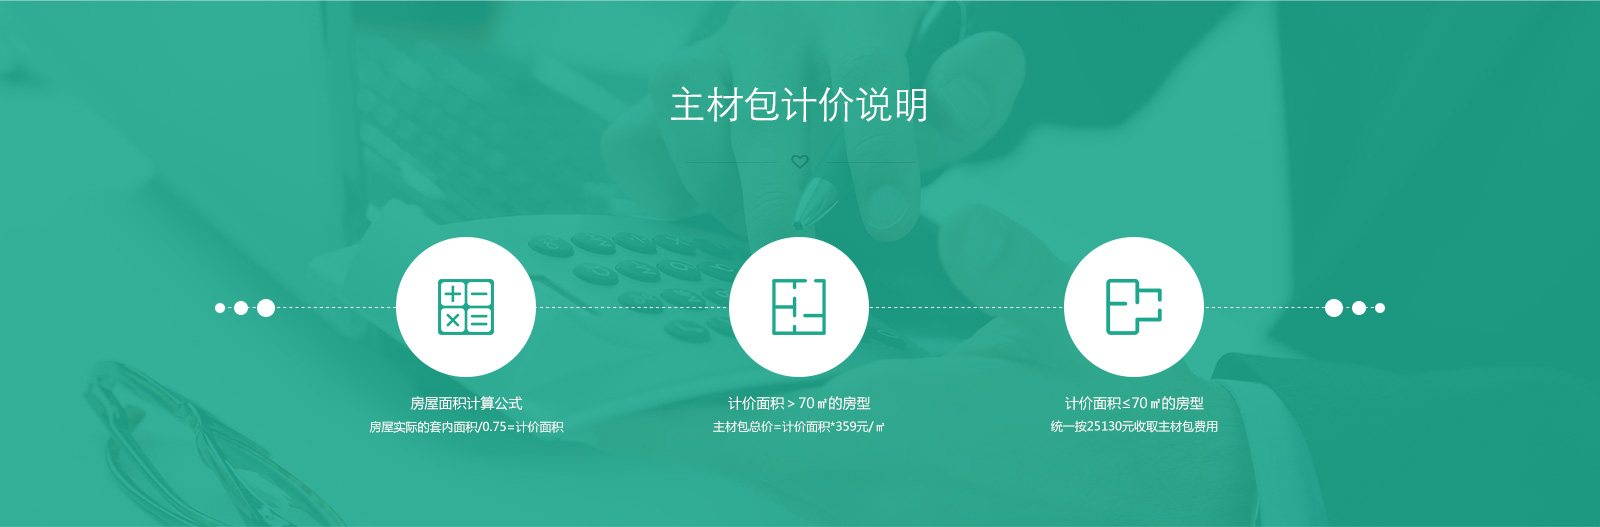
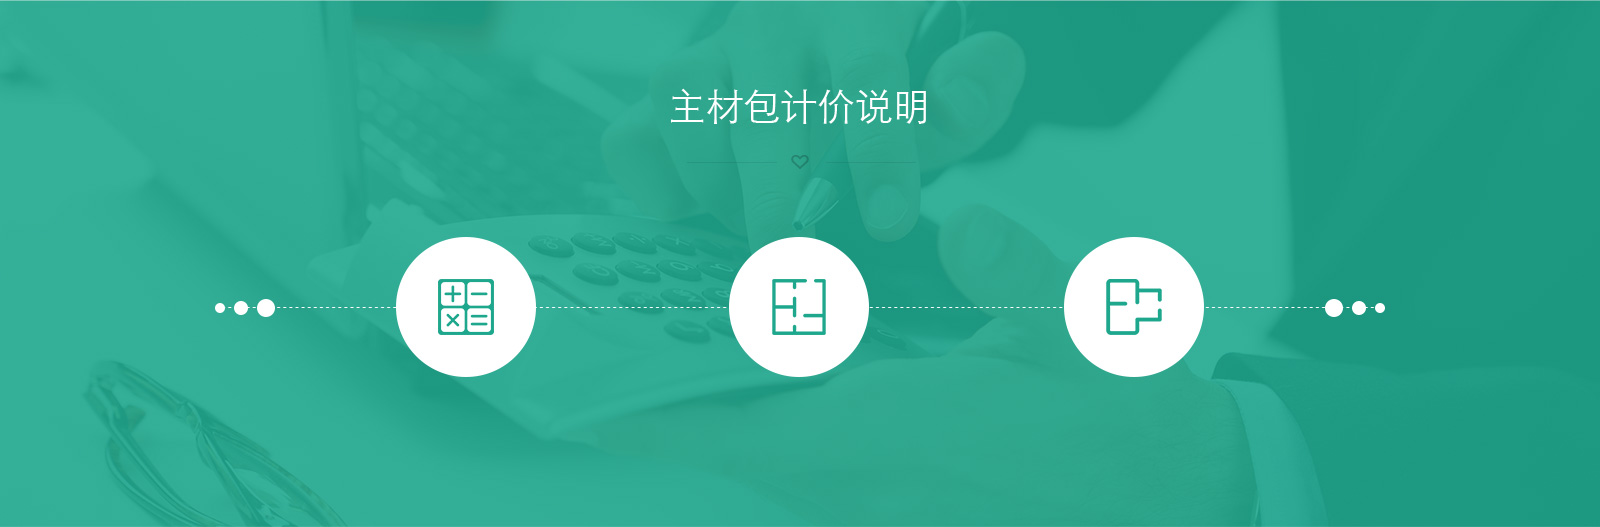
update

diff --git a/static/0100/css/style-2.min.css b/static/0100/css/style-2.min.css
@@ -1,3 +1,3 @@
-.white{color:#fff}.red_1{color:#ff4048}.red_2{color:#ff696f}.red_3{color:#e62626}.grey_1{color:#f5f5f5}.grey_2{color:#f7f7f7}.grey_3{color:#e4e4e4}.grey_4{color:#333}.grey_5{color:#666}.grey_6{color:#999}.yellow_1{color:#ffc240}.yellow_2{color:#f8a538}.green_1{color:#d4c913}.ellipsis,.page-1 div.content-page .page5 div.qin div.qin-left div i{white-space:nowrap;overflow:hidden;text-overflow:ellipsis}.no_select,body.page-2 div.page1 ul.swiper-btns li{user-select:none;-moz-user-select:none;-webkit-user-select:none;-ms-user-select:none}.box_css3{display:flex;display:-webkit-box;display:-moz-box;display:-ms-flexbox;display:-webkit-flex}img.lazy_img{background-color:transparent}div.lazy{background-color:transparent}.full{width:100%;height:100%}body{min-width:1170px}em.titles i{color:#878787}em.titles.title2{color:#fff}em.titles.title2 i{color:#a9a9a9}.full{width:100%;height:100%}.page-1{min-width:1170px;margin:0 auto}.page-1 div.swiper1{width:100%;height:800px}.page-1 div.swiper1 div.swiper-slide-active a.lazy img{display:block}.page-1 div.swiper1 a{display:block;width:100%;height:800px;position:relative}.page-1 div.swiper1 a img{display:block;width:1600px;height:800px;position:absolute;left:50%;top:0;margin-left:-800px;display:none}.page-1 div.content-page .page1{background-color:#f7f7f7;overflow:hidden}.page-1 div.content-page .page1 img{background:none;display:block;width:1078px;height:463px;margin:50px auto}.page-1 div.content-page .page2{background-color:#252525;overflow:hidden}.page-1 div.content-page .page2 em.titles{color:#fff}.page-1 div.content-page .page2 em.titles i{color:#8f8f8f}.page-1 div.content-page .page2 div.hovers{margin-top:80px;width:1235px}.page-1 div.content-page .page2 div.hovers div.hovers-list{overflow:hidden;float:left;width:270px;height:300px;overflow:hidden;position:relative;text-align:center;margin-right:30px}.page-1 div.content-page .page2 div.hovers div.hovers-list:hover span{bottom:-50px}.page-1 div.content-page .page2 div.hovers div.hovers-list:hover div.tops{top:0}.page-1 div.content-page .page2 div.hovers div.hovers-list span{display:block;background-color:rgba(0,0,0,0.4);width:100%;height:50px;line-height:50px;color:#fff;font-size:18px;position:absolute;bottom:0;left:0;transition:all ease .3s 0s;-moz-transition:all ease .3s 0s;-webkit-transition:all ease .3s 0s}.page-1 div.content-page .page2 div.hovers div.hovers-list div.tops{transition:all ease .3s 0s;-moz-transition:all ease .3s 0s;-webkit-transition:all ease .3s 0s;position:absolute;left:0;top:-100%;width:100%;height:100%;background-color:rgba(76,193,170,0.9);font-size:16px;line-height:2em;color:#fff}.page-1 div.content-page .page2 div.hovers div.hovers-list div.tops em{margin-top:45px;margin-bottom:10px;display:inline-block;border-bottom:1px solid #fff;padding-bottom:12px;font-size:22px}.page-1 div.content-page .page2 div.peoples{width:1250px;padding-bottom:100px;margin-top:70px}.page-1 div.content-page .page2 div.peoples div.lists{float:left;margin-left:5px;margin-right:56px}.page-1 div.content-page .page2 div.peoples div.lists .lazy-body{border:2px solid #474747;width:214px;height:214px;padding:13px}.page-1 div.content-page .page2 div.peoples div.lists .lazy-body .lazy{display:block;width:214px;height:214px}.page-1 div.content-page .page2 div.peoples div.lists em{text-align:center}.page-1 div.content-page .page2 div.peoples div.lists em span{color:#c59a6d;margin:15px 0;display:block}.page-1 div.content-page .page2 div.peoples div.lists em i{display:block;color:#777777}.page-1 div.content-page .page3{background-color:#f8f8f8}.page-1 div.content-page .page3 i.xin:before{background-color:#f8f8f8}.page-1 div.content-page .page3 img{background:none;display:block;margin:0 auto;width:1098px;margin-top:20px;height:754px}.page-1 div.content-page .page4{background-color:#fff;overflow:hidden}.page-1 div.content-page .page4 i.xin:before{background-color:#fff}.page-1 div.content-page .page4 img.huo{width:769px;height:465px;margin:60px auto;background:none}.page-1 div.content-page .page4 div.swiper2{margin-bottom:30px;height:260px;width:100%;width:100%}.page-1 div.content-page .page4 div.swiper2 .pagination1{bottom:0}.page-1 div.content-page .page4 div.swiper2 .swiper-pagination-switch{background-color:transparent;border:1px solid #d1d1d1}.page-1 div.content-page .page4 div.swiper2 .swiper-active-switch{background-color:#35bda3;border-color:#35bda3}.page-1 div.content-page .page4 div.swiper2 div.swiper-slide{height:230px}.page-1 div.content-page .page4 div.swiper2 div.a-body{width:1200px;overflow:hidden}.page-1 div.content-page .page4 div.swiper2 a{float:left;margin-right:15px;border:1px solid #c7c7c7;width:180px;height:220px;overflow:hidden;text-align:center}.page-1 div.content-page .page4 div.swiper2 a div.lazy{width:180px;height:112px}.page-1 div.content-page .page4 div.swiper2 a span{background-color:#35bda3;color:#fff;text-align:center;font-size:16px;width:120px;display:block;height:30px;line-height:30px;border-radius:5px;margin:15px auto}.page-1 div.content-page .page4 div.swiper2 a p{width:160px;margin:0 auto;text-align:left;display:block;overflow:hidden;text-overflow:ellipsis;display:-webkit-box;-webkit-box-orient:vertical;-webkit-line-clamp:2;height:42px;color:#666;font-size:12px}.page-1 div.content-page .page5{background-color:#040404;overflow:hidden}.page-1 div.content-page .page5 em.titles{color:#fff}.page-1 div.content-page .page5 em.titles i{color:#a9a9a9}.page-1 div.content-page .page5 div.qin{margin:60px 0;overflow:hidden;height:410px;position:relative}.page-1 div.content-page .page5 div.qin div.qin-list{position:relative;width:70px;transition:all linear .3s 0s;-moz-transition:all linear .3s 0s;-webkit-transition:all linear .3s 0s;height:100%;background-color:#f46f46;background-color:rgba(244,111,70,0.8);float:left;overflow:hidden}.page-1 div.content-page .page5 div.qin div.qin-list.even{background-color:#4ab49f;background-color:rgba(74,180,159,0.8)}.page-1 div.content-page .page5 div.qin div.qin-list.on{width:820px}.page-1 div.content-page .page5 div.qin div.qin-list.on div.qin-title{opacity:0;top:100%}.page-1 div.content-page .page5 div.qin div.qin-list.on div.qin-left{opacity:1}.page-1 div.content-page .page5 div.qin div.qin-left{overflow:hidden;text-align:center;position:relative;width:760px;height:370px;padding:40px;color:#fff;opacity:0;overflow-y:auto;transition:all ease .3s .3s;-moz-transition:all ease .3s .3s;-webkit-transition:all ease .3s .3s}.page-1 div.content-page .page5 div.qin div.qin-left em{display:block;font-size:30px;margin-bottom:25px}.page-1 div.content-page .page5 div.qin div.qin-left span{display:block;font-size:14px}.page-1 div.content-page .page5 div.qin div.qin-left div{margin-top:30px}.page-1 div.content-page .page5 div.qin div.qin-left div i{float:left;text-align:left;width:150px;height:30px;line-height:30px;font-size:12px;padding:0 10px;background-color:rgba(0,0,0,0.08);margin-right:16px;margin-bottom:5px}.page-1 div.content-page .page5 div.qin div.qin-title{position:absolute;width:70px;height:100%;color:#f8f8f8;font-size:20px;overflow:hidden;writing-mode:tb-rl;text-align:center;cursor:pointer;right:17px;top:0;transition:all ease .3s .3s;-moz-transition:all ease .3s .3s;-webkit-transition:all ease .3s .3s}.page-1 div.content-page .page5 div.qin div.qin-title i{display:inline-block;font-size:24px;writing-mode:lr-tb}.page-1 div.content-page .page6{padding-bottom:100px}.page-1 div.content-page .page6 i.xin:before{background-color:#fff}.page-1 div.content-page .page6 img{margin:0 auto}body.page-1-2 .page7{background-color:#2a2a2a;position:relative;height:514px;overflow:hidden}body.page-1-2 .page7 img.bg{position:absolute;left:50%;top:0;margin-left:-800px;height:514px}body.page-1-2 .page7 div.w1170{position:relative;z-index:3}body.page-1-2 .page7 em.titles span{color:#fff}body.page-1-2 .page7 em.titles i{color:#aaaaaa}body.page-1-2 .page7 form{display:block;text-align:center;overflow:hidden;padding-bottom:70px}body.page-1-2 .page7 form div.input{display:inline-block;width:370px;height:50px;font-size:14px;margin:65px 15px 0;position:relative}body.page-1-2 .page7 form div.input div.error{position:absolute;top:100%;left:0;line-height:30px;display:block;margin-top:15px;white-space:nowrap}body.page-1-2 .page7 form div.input input,body.page-1-2 .page7 form div.input select{box-sizing:border-box;display:block;width:100%;height:100%;text-indent:1em;border-radius:0}body.page-1-2 .page7 form button{margin-top:65px;width:370px;font-size:14px;text-align:center;line-height:50px;border:1px solid #3cd8b9;color:#3cd8b9;background-color:transparent;cursor:pointer}body.page-2 div.page-header{margin-top:70px;position:relative;height:40px;overflow:hidden;position:absolute;z-index:10;left:0;top:0;width:100%}body.page-2 div.page-header i.bg{position:absolute;left:0;top:0;background-color:#fff;opacity:.2;filter:alpha(opacity=20)}body.page-2 div.page-header div.w1170{position:relative;z-index:1}body.page-2 div.page-header div.w1170 div.fl{line-height:40px}body.page-2 div.page-header div.w1170 div.fl a{color:#fff;transition:all ease .3s 0s;-moz-transition:all ease .3s 0s;-webkit-transition:all ease .3s 0s;margin-right:30px}body.page-2 div.page-header div.w1170 div.fl a.on,body.page-2 div.page-header div.w1170 div.fl a:hover{color:#1ea78d}body.page-2 div.page-header div.w1170 div.fr a{display:block;background-color:#1ea78d;border-radius:3px;color:#fff;font-size:12px;padding:6px 15px;line-height:1em;margin-top:7px;transition:all ease .3s 0s;-moz-transition:all ease .3s 0s;-webkit-transition:all ease .3s 0s}body.page-2 div.page-header div.w1170 div.fr a:hover{opacity:.8;filter:alpha(opacity=80)}body.page-2 .go-form{cursor:pointer}body.page-2 div.banner{background-color:#000;height:800px;position:relative}body.page-2 div.banner img{position:absolute;left:50%;margin-left:-800px;top:0;display:block;height:800px;background:none}body.page-2 div.banner img.banner-top{height:319px;margin-left:-239px;top:287px}body.page-2 div.banner a{display:block;position:absolute;width:110px;height:30px;color:#fff;background-color:#1ea78d;text-align:center;line-height:30px;font-size:14px;left:50%;margin-left:-55px;bottom:180px;transition:all ease .3s 0s;-moz-transition:all ease .3s 0s;-webkit-transition:all ease .3s 0s}body.page-2 div.banner a:hover{background-color:#fff;color:#1ea78d}body.page-2 div.page1{background-color:#f7f7f7;overflow:hidden;padding-bottom:70px}body.page-2 div.page1 ul.swiper-btns{position:relative;height:50px;border-bottom:1px solid #f0f0f0}body.page-2 div.page1 ul.swiper-btns li{float:left;width:20%;position:relative;height:50px;line-height:50px;text-align:center;color:#666;font-size:14px;transition:all ease .3s 0s;-moz-transition:all ease .3s 0s;-webkit-transition:all ease .3s 0s;cursor:pointer}body.page-2 div.page1 ul.swiper-btns li.on,body.page-2 div.page1 ul.swiper-btns li:hover{color:#1ea78d}body.page-2 div.page1 ul.swiper-btns li:after{content:'';position:absolute;width:1px;display:block;height:14px;background-color:#b7ddd6;right:0;top:50%;margin-top:-7px}body.page-2 div.page1 ul.swiper-btns i{position:absolute;width:20%;height:2px;background-color:#1ea78d;bottom:-1px;left:0;display:block;transition:all ease .3s 0s;-moz-transition:all ease .3s 0s;-webkit-transition:all ease .3s 0s}body.page-2 div.page1 ul.swiper-btns:after{content:'';position:absolute;width:1px;display:block;height:20px;background-color:#f7f7f7;right:0;top:50%;margin-top:-7px}body.page-2 div.page1 div.swiper1{width:100%;height:450px;overflow:hidden}body.page-2 div.page1 div.swiper1 a.lazy{display:block;width:1170px;height:450px}body.page-2 div.page1 div.swiper1 a.lazy img{display:none}body.page-2 div.page1 div.swiper1 .swiper-slide-active a.lazy img{display:block}body.page-2 div.page2{background-color:#35b099}body.page-2 div.page2 div.w1170{height:527px;position:relative}body.page-2 div.page2 div.w1170 img{position:absolute;height:100%;background-color:transparent;top:0;left:50%;margin-left:-800px}body.page-2 div.page3{background-color:#fff;overflow:hidden}body.page-2 div.page4{background-color:#0c0c0c;position:relative;height:705px;overflow:hidden}body.page-2 div.page4 img.bg{position:absolute;height:705px;left:50%;top:0;margin-left:-800px;background-color:transparent}body.page-2 div.page4 div.w1170{position:relative;z-index:3}body.page-2 div.page4 div.w1170 div.swiper-body{position:relative;width:1030px;margin:0 auto}body.page-2 div.page4 div.w1170 div.swiper-body i.icons{position:absolute;display:block;top:50%;margin-top:-36px;border:1px solid #fff;opacity:0.6;width:70px;height:70px;border-radius:50%;text-align:center;line-height:70px;font-size:50px;right:100%;color:#fff;opacity:0.6;cursor:pointer}body.page-2 div.page4 div.w1170 div.swiper-body i.icons.icon-right{left:100%}body.page-2 div.page4 div.w1170 div.swiper2{width:970px;height:420px;margin:50px auto;position:relative}body.page-2 div.page4 div.w1170 div.swiper2 div.swiper-slide{position:relative;background-color:#1f1f1f;overflow:hidden}body.page-2 div.page4 div.w1170 div.swiper2 div.swiper-slide img{display:none}body.page-2 div.page4 div.w1170 div.swiper2 div.swiper-slide.swiper-slide-active img{display:block}body.page-2 div.page4 div.w1170 div.swiper2 div.swiper-slide.swiper-slide-active div.top div.left{left:0}body.page-2 div.page4 div.w1170 div.swiper2 div.swiper-slide.swiper-slide-active div.top div.right div.lazy{transform:translate(0, 0);-moz-transform:translate(0, 0);-webkit-transform:translate(0, 0);-ms-transform:translate(0, 0)}body.page-2 div.page4 div.w1170 div.swiper2 div.swiper-slide div.top{position:absolute;left:0;top:0;z-index:10}body.page-2 div.page4 div.w1170 div.swiper2 div.swiper-slide div.top div.left{width:270px;position:absolute;height:100%;overflow:hidden;top:0;left:-300px;transition:all ease .5s .4s;-moz-transition:all ease .5s .4s;-webkit-transition:all ease .5s .4s}body.page-2 div.page4 div.w1170 div.swiper2 div.swiper-slide div.top div.left div.lazy{width:200px;height:140px;background-color:#fff;border:1px solid #e9e9e9;margin:60px auto;margin-bottom:20px}body.page-2 div.page4 div.w1170 div.swiper2 div.swiper-slide div.top div.left div.fonts{width:200px;overflow-y:auto;color:#666;height:180px;margin:0 auto;font-size:12px}body.page-2 div.page4 div.w1170 div.swiper2 div.swiper-slide div.top div.left:after{width:100%;height:100%;background-color:#fff;opacity:0.8;content:'';left:0;top:0;position:absolute;z-index:-1}body.page-2 div.page4 div.w1170 div.swiper2 div.swiper-slide div.top div.right{position:absolute;bottom:0;left:270px;right:0;height:150px;text-align:center;font-size:0;overflow:hidden}body.page-2 div.page4 div.w1170 div.swiper2 div.swiper-slide div.top div.right div.lazy{display:inline-block;width:130px;height:110px;margin:0 20px;border:6px solid #fff;transform:translate(0, 150%);-moz-transform:translate(0, 150%);-webkit-transform:translate(0, 150%);-ms-transform:translate(0, 150%);transition:all ease .5s .5s;-moz-transition:all ease .5s .5s;-webkit-transition:all ease .5s .5s}body.page-2 div.page4 div.w1170 div.swiper2 div.swiper-slide div.top div.right div.lazy:nth-of-type(2){transition:all ease .5s .6s;-moz-transition:all ease .5s .6s;-webkit-transition:all ease .5s .6s}body.page-2 div.page4 div.w1170 div.swiper2 div.swiper-slide div.top div.right div.lazy:nth-of-type(3){transition:all ease .5s .7s;-moz-transition:all ease .5s .7s;-webkit-transition:all ease .5s .7s}body.page-2 div.page7{overflow:hidden}body.page-2 div.page7 span.xin{opacity:0.3}body.page-2 div.page7 button{margin-top:0px}body.page-2 div.page7 div.input{background-color:#fff;display:block;margin:16px auto}body.page-2 div.page7 div.input input,body.page-2 div.page7 div.input select{font-size:14px}body.page-2 div.page7 div.input div.error{left:390px;top:0}div.input input{transition:all ease .3s 0s;-moz-transition:all ease .3s 0s;-webkit-transition:all ease .3s 0s}div.input input:focus{border-color:#1ea78d;box-shadow:2px 1px 6px #1ea78d}select{border:none}.pagination,.pagination1{position:absolute;z-index:20;bottom:10px;width:100%;text-align:center}.swiper-pagination-switch{display:inline-block;width:8px;height:8px;border-radius:8px;background:#555;margin:0 5px;opacity:0.8;border:1px solid #fff;cursor:pointer}.swiper-active-switch{background:#fff}
+.white{color:#fff}.red_1{color:#ff4048}.red_2{color:#ff696f}.red_3{color:#e62626}.grey_1{color:#f5f5f5}.grey_2{color:#f7f7f7}.grey_3{color:#e4e4e4}.grey_4{color:#333}.grey_5{color:#666}.grey_6{color:#999}.yellow_1{color:#ffc240}.yellow_2{color:#f8a538}.green_1{color:#d4c913}.ellipsis,.page-1 div.content-page .page5 div.qin div.qin-left div i{white-space:nowrap;overflow:hidden;text-overflow:ellipsis}.no_select,body.page-2 div.page1 ul.swiper-btns li{user-select:none;-moz-user-select:none;-webkit-user-select:none;-ms-user-select:none}.box_css3{display:flex;display:-webkit-box;display:-moz-box;display:-ms-flexbox;display:-webkit-flex}img.lazy_img{background-color:transparent}div.lazy{background-color:transparent}.full{width:100%;height:100%}body{min-width:1170px}em.titles i{color:#878787}em.titles.title2{color:#fff}em.titles.title2 i{color:#a9a9a9}.full{width:100%;height:100%}.page-1{min-width:1170px;margin:0 auto}.page-1 div.swiper1{width:100%;height:800px}.page-1 div.swiper1 div.swiper-slide-active a.lazy img{display:block}.page-1 div.swiper1 a{display:block;width:100%;height:800px;position:relative}.page-1 div.swiper1 a img{display:block;width:1600px;height:800px;position:absolute;left:50%;top:0;margin-left:-800px;display:none}.page-1 div.content-page .page1{background-color:#f7f7f7;overflow:hidden}.page-1 div.content-page .page1 img{background:none;display:block;width:1078px;height:463px;margin:50px auto}.page-1 div.content-page .page2{background-color:#252525;overflow:hidden}.page-1 div.content-page .page2 em.titles{color:#fff}.page-1 div.content-page .page2 em.titles i{color:#8f8f8f}.page-1 div.content-page .page2 div.hovers{margin-top:80px;width:1235px}.page-1 div.content-page .page2 div.hovers div.hovers-list{overflow:hidden;float:left;width:270px;height:300px;overflow:hidden;position:relative;text-align:center;margin-right:30px}.page-1 div.content-page .page2 div.hovers div.hovers-list:hover span{bottom:-50px}.page-1 div.content-page .page2 div.hovers div.hovers-list:hover div.tops{top:0}.page-1 div.content-page .page2 div.hovers div.hovers-list span{display:block;background-color:rgba(0,0,0,0.4);width:100%;height:50px;line-height:50px;color:#fff;font-size:18px;position:absolute;bottom:0;left:0;transition:all ease .3s 0s;-moz-transition:all ease .3s 0s;-webkit-transition:all ease .3s 0s}.page-1 div.content-page .page2 div.hovers div.hovers-list div.tops{transition:all ease .3s 0s;-moz-transition:all ease .3s 0s;-webkit-transition:all ease .3s 0s;position:absolute;left:0;top:-100%;width:100%;height:100%;background-color:rgba(76,193,170,0.9);font-size:16px;line-height:2em;color:#fff}.page-1 div.content-page .page2 div.hovers div.hovers-list div.tops em{margin-top:45px;margin-bottom:10px;display:inline-block;border-bottom:1px solid #fff;padding-bottom:12px;font-size:22px}.page-1 div.content-page .page2 div.peoples{width:1250px;padding-bottom:100px;margin-top:70px}.page-1 div.content-page .page2 div.peoples div.lists{float:left;margin-left:5px;margin-right:56px}.page-1 div.content-page .page2 div.peoples div.lists .lazy-body{border:2px solid #474747;width:214px;height:214px;padding:13px}.page-1 div.content-page .page2 div.peoples div.lists .lazy-body .lazy{display:block;width:214px;height:214px}.page-1 div.content-page .page2 div.peoples div.lists em{text-align:center}.page-1 div.content-page .page2 div.peoples div.lists em span{color:#c59a6d;margin:15px 0;display:block}.page-1 div.content-page .page2 div.peoples div.lists em i{display:block;color:#777777}.page-1 div.content-page .page3{background-color:#f8f8f8}.page-1 div.content-page .page3 i.xin:before{background-color:#f8f8f8}.page-1 div.content-page .page3 img{background:none;display:block;margin:0 auto;width:1098px;margin-top:20px;height:754px}.page-1 div.content-page .page4{background-color:#fff;overflow:hidden}.page-1 div.content-page .page4 i.xin:before{background-color:#fff}.page-1 div.content-page .page4 img.huo{width:769px;height:465px;margin:60px auto;background:none}.page-1 div.content-page .page4 div.swiper2{margin-bottom:30px;height:260px;width:100%;width:100%}.page-1 div.content-page .page4 div.swiper2 .pagination1{bottom:0}.page-1 div.content-page .page4 div.swiper2 .swiper-pagination-switch{background-color:transparent;border:1px solid #d1d1d1}.page-1 div.content-page .page4 div.swiper2 .swiper-active-switch{background-color:#35bda3;border-color:#35bda3}.page-1 div.content-page .page4 div.swiper2 div.swiper-slide{height:230px}.page-1 div.content-page .page4 div.swiper2 div.a-body{width:1200px;overflow:hidden}.page-1 div.content-page .page4 div.swiper2 a{float:left;margin-right:15px;border:1px solid #c7c7c7;width:180px;height:220px;overflow:hidden;text-align:center}.page-1 div.content-page .page4 div.swiper2 a div.lazy{width:180px;height:112px}.page-1 div.content-page .page4 div.swiper2 a span{background-color:#35bda3;color:#fff;text-align:center;font-size:16px;width:120px;display:block;height:30px;line-height:30px;border-radius:5px;margin:15px auto}.page-1 div.content-page .page4 div.swiper2 a p{width:160px;margin:0 auto;text-align:left;display:block;overflow:hidden;text-overflow:ellipsis;display:-webkit-box;-webkit-box-orient:vertical;-webkit-line-clamp:2;height:42px;color:#666;font-size:12px}.page-1 div.content-page .page5{background-color:#040404;overflow:hidden}.page-1 div.content-page .page5 em.titles{color:#fff}.page-1 div.content-page .page5 em.titles i{color:#a9a9a9}.page-1 div.content-page .page5 div.qin{margin:60px 0;overflow:hidden;height:410px;position:relative}.page-1 div.content-page .page5 div.qin div.qin-list{position:relative;width:70px;transition:all linear .3s 0s;-moz-transition:all linear .3s 0s;-webkit-transition:all linear .3s 0s;height:100%;background-color:#f46f46;background-color:rgba(244,111,70,0.8);float:left;overflow:hidden}.page-1 div.content-page .page5 div.qin div.qin-list.even{background-color:#4ab49f;background-color:rgba(74,180,159,0.8)}.page-1 div.content-page .page5 div.qin div.qin-list.on{width:820px}.page-1 div.content-page .page5 div.qin div.qin-list.on div.qin-title{opacity:0;top:100%}.page-1 div.content-page .page5 div.qin div.qin-list.on div.qin-left{opacity:1}.page-1 div.content-page .page5 div.qin div.qin-left{overflow:hidden;text-align:center;position:relative;width:760px;height:370px;padding:40px;color:#fff;opacity:0;overflow-y:auto;transition:all ease .3s .3s;-moz-transition:all ease .3s .3s;-webkit-transition:all ease .3s .3s}.page-1 div.content-page .page5 div.qin div.qin-left em{display:block;font-size:30px;margin-bottom:25px}.page-1 div.content-page .page5 div.qin div.qin-left span{display:block;font-size:14px}.page-1 div.content-page .page5 div.qin div.qin-left div{margin-top:30px}.page-1 div.content-page .page5 div.qin div.qin-left div i{float:left;text-align:left;width:150px;height:30px;line-height:30px;font-size:12px;padding:0 10px;background-color:rgba(0,0,0,0.08);margin-right:16px;margin-bottom:5px}.page-1 div.content-page .page5 div.qin div.qin-title{position:absolute;width:70px;height:100%;color:#f8f8f8;font-size:20px;overflow:hidden;writing-mode:tb-rl;text-align:center;cursor:pointer;right:17px;top:0;transition:all ease .3s .3s;-moz-transition:all ease .3s .3s;-webkit-transition:all ease .3s .3s}.page-1 div.content-page .page5 div.qin div.qin-title i{display:inline-block;font-size:24px;writing-mode:lr-tb}.page-1 div.content-page .page6{padding-bottom:100px}.page-1 div.content-page .page6 i.xin:before{background-color:#fff}.page-1 div.content-page .page6 img{margin:0 auto}body.page-1-2 .page7{background-color:#2a2a2a;position:relative;height:514px;overflow:hidden}body.page-1-2 .page7 img.bg{position:absolute;left:50%;top:0;margin-left:-800px;height:514px}body.page-1-2 .page7 div.w1170{position:relative;z-index:3}body.page-1-2 .page7 em.titles span{color:#fff}body.page-1-2 .page7 em.titles i{color:#aaaaaa}body.page-1-2 .page7 form{display:block;text-align:center;overflow:hidden;padding-bottom:70px}body.page-1-2 .page7 form div.input{display:inline-block;width:370px;height:50px;font-size:14px;margin:65px 15px 0;position:relative}body.page-1-2 .page7 form div.input div.error{position:absolute;top:100%;left:0;line-height:30px;display:block;margin-top:15px;white-space:nowrap}body.page-1-2 .page7 form div.input input,body.page-1-2 .page7 form div.input select{box-sizing:border-box;display:block;width:100%;height:100%;text-indent:1em;border-radius:0}body.page-1-2 .page7 form button{margin-top:65px;width:370px;font-size:14px;text-align:center;line-height:50px;border:1px solid #3cd8b9;color:#3cd8b9;background-color:transparent;cursor:pointer}body.page-2 div.page-header{margin-top:70px;position:relative;height:40px;overflow:hidden;position:absolute;z-index:10;left:0;top:0;width:100%}body.page-2 div.page-header i.bg{position:absolute;left:0;top:0;background-color:#fff;opacity:.2;filter:alpha(opacity=20)}body.page-2 div.page-header div.w1170{position:relative;z-index:1}body.page-2 div.page-header div.w1170 div.fl{line-height:40px}body.page-2 div.page-header div.w1170 div.fl a{color:#fff;transition:all ease .3s 0s;-moz-transition:all ease .3s 0s;-webkit-transition:all ease .3s 0s;margin-right:30px}body.page-2 div.page-header div.w1170 div.fl a.on,body.page-2 div.page-header div.w1170 div.fl a:hover{color:#1ea78d}body.page-2 div.page-header div.w1170 div.fr a{display:block;background-color:#1ea78d;border-radius:3px;color:#fff;font-size:12px;padding:6px 15px;line-height:1em;margin-top:7px;transition:all ease .3s 0s;-moz-transition:all ease .3s 0s;-webkit-transition:all ease .3s 0s}body.page-2 div.page-header div.w1170 div.fr a:hover{opacity:.8;filter:alpha(opacity=80)}body.page-2 div.page2 div.fonts{position:absolute;z-index:10;width:100%;top:400px;left:95px;width:1000px}body.page-2 div.page2 div.fonts p{float:left;width:33%;text-align:center;color:#fff}body.page-2 .go-form{cursor:pointer}body.page-2 div.banner{background-color:#000;height:800px;position:relative}body.page-2 div.banner img{position:absolute;left:50%;margin-left:-800px;top:0;display:block;height:800px;background:none}body.page-2 div.banner img.banner-top{height:319px;margin-left:-239px;top:287px}body.page-2 div.banner a{display:block;position:absolute;width:110px;height:30px;color:#fff;background-color:#1ea78d;text-align:center;line-height:30px;font-size:14px;left:50%;margin-left:-55px;bottom:180px;transition:all ease .3s 0s;-moz-transition:all ease .3s 0s;-webkit-transition:all ease .3s 0s}body.page-2 div.banner a:hover{background-color:#fff;color:#1ea78d}body.page-2 div.page1{background-color:#f7f7f7;overflow:hidden;padding-bottom:70px}body.page-2 div.page1 ul.swiper-btns{position:relative;height:50px;border-bottom:1px solid #f0f0f0}body.page-2 div.page1 ul.swiper-btns li{float:left;width:20%;position:relative;height:50px;line-height:50px;text-align:center;color:#666;font-size:14px;transition:all ease .3s 0s;-moz-transition:all ease .3s 0s;-webkit-transition:all ease .3s 0s;cursor:pointer}body.page-2 div.page1 ul.swiper-btns li.on,body.page-2 div.page1 ul.swiper-btns li:hover{color:#1ea78d}body.page-2 div.page1 ul.swiper-btns li:after{content:'';position:absolute;width:1px;display:block;height:14px;background-color:#b7ddd6;right:0;top:50%;margin-top:-7px}body.page-2 div.page1 ul.swiper-btns i{position:absolute;width:20%;height:2px;background-color:#1ea78d;bottom:-1px;left:0;display:block;transition:all ease .3s 0s;-moz-transition:all ease .3s 0s;-webkit-transition:all ease .3s 0s}body.page-2 div.page1 ul.swiper-btns:after{content:'';position:absolute;width:1px;display:block;height:20px;background-color:#f7f7f7;right:0;top:50%;margin-top:-7px}body.page-2 div.page1 div.swiper1{width:100%;height:450px;overflow:hidden}body.page-2 div.page1 div.swiper1 a.lazy{display:block;width:1170px;height:450px}body.page-2 div.page1 div.swiper1 a.lazy img{display:none}body.page-2 div.page1 div.swiper1 .swiper-slide-active a.lazy img{display:block}body.page-2 div.page2{background-color:#35b099}body.page-2 div.page2 div.w1170{height:527px;position:relative}body.page-2 div.page2 div.w1170 img{position:absolute;height:100%;background-color:transparent;top:0;left:50%;margin-left:-800px}body.page-2 div.page3{background-color:#fff;overflow:hidden}body.page-2 div.page4{background-color:#0c0c0c;position:relative;height:705px;overflow:hidden}body.page-2 div.page4 img.bg{position:absolute;height:705px;left:50%;top:0;margin-left:-800px;background-color:transparent}body.page-2 div.page4 div.w1170{position:relative;z-index:3}body.page-2 div.page4 div.w1170 div.swiper-body{position:relative;width:1030px;margin:0 auto}body.page-2 div.page4 div.w1170 div.swiper-body i.icons{position:absolute;display:block;top:50%;margin-top:-36px;border:1px solid #fff;opacity:0.6;width:70px;height:70px;border-radius:50%;text-align:center;line-height:70px;font-size:50px;right:100%;color:#fff;opacity:0.6;cursor:pointer}body.page-2 div.page4 div.w1170 div.swiper-body i.icons.icon-right{left:100%}body.page-2 div.page4 div.w1170 div.swiper2{width:970px;height:420px;margin:50px auto;position:relative}body.page-2 div.page4 div.w1170 div.swiper2 div.swiper-slide{position:relative;background-color:#1f1f1f;overflow:hidden}body.page-2 div.page4 div.w1170 div.swiper2 div.swiper-slide img{display:none}body.page-2 div.page4 div.w1170 div.swiper2 div.swiper-slide.swiper-slide-active img{display:block}body.page-2 div.page4 div.w1170 div.swiper2 div.swiper-slide.swiper-slide-active div.top div.left{left:0}body.page-2 div.page4 div.w1170 div.swiper2 div.swiper-slide.swiper-slide-active div.top div.right div.lazy{transform:translate(0, 0);-moz-transform:translate(0, 0);-webkit-transform:translate(0, 0);-ms-transform:translate(0, 0)}body.page-2 div.page4 div.w1170 div.swiper2 div.swiper-slide div.top{position:absolute;left:0;top:0;z-index:10}body.page-2 div.page4 div.w1170 div.swiper2 div.swiper-slide div.top div.left{width:270px;position:absolute;height:100%;overflow:hidden;top:0;left:-300px;transition:all ease .5s .4s;-moz-transition:all ease .5s .4s;-webkit-transition:all ease .5s .4s}body.page-2 div.page4 div.w1170 div.swiper2 div.swiper-slide div.top div.left div.lazy{width:200px;height:140px;background-color:#fff;border:1px solid #e9e9e9;margin:60px auto;margin-bottom:20px}body.page-2 div.page4 div.w1170 div.swiper2 div.swiper-slide div.top div.left div.fonts{width:200px;overflow-y:auto;color:#666;height:180px;margin:0 auto;font-size:12px}body.page-2 div.page4 div.w1170 div.swiper2 div.swiper-slide div.top div.left:after{width:100%;height:100%;background-color:#fff;opacity:0.8;content:'';left:0;top:0;position:absolute;z-index:-1}body.page-2 div.page4 div.w1170 div.swiper2 div.swiper-slide div.top div.right{position:absolute;bottom:0;left:270px;right:0;height:150px;text-align:center;font-size:0;overflow:hidden}body.page-2 div.page4 div.w1170 div.swiper2 div.swiper-slide div.top div.right div.lazy{display:inline-block;width:130px;height:110px;margin:0 20px;border:6px solid #fff;transform:translate(0, 150%);-moz-transform:translate(0, 150%);-webkit-transform:translate(0, 150%);-ms-transform:translate(0, 150%);transition:all ease .5s .5s;-moz-transition:all ease .5s .5s;-webkit-transition:all ease .5s .5s}body.page-2 div.page4 div.w1170 div.swiper2 div.swiper-slide div.top div.right div.lazy:nth-of-type(2){transition:all ease .5s .6s;-moz-transition:all ease .5s .6s;-webkit-transition:all ease .5s .6s}body.page-2 div.page4 div.w1170 div.swiper2 div.swiper-slide div.top div.right div.lazy:nth-of-type(3){transition:all ease .5s .7s;-moz-transition:all ease .5s .7s;-webkit-transition:all ease .5s .7s}body.page-2 div.page7{overflow:hidden}body.page-2 div.page7 span.xin{opacity:0.3}body.page-2 div.page7 button{margin-top:0px}body.page-2 div.page7 div.input{background-color:#fff;display:block;margin:16px auto}body.page-2 div.page7 div.input input,body.page-2 div.page7 div.input select{font-size:14px}body.page-2 div.page7 div.input div.error{left:390px;top:0}div.input input{transition:all ease .3s 0s;-moz-transition:all ease .3s 0s;-webkit-transition:all ease .3s 0s}div.input input:focus{border-color:#1ea78d;box-shadow:2px 1px 6px #1ea78d}select{border:none}.pagination,.pagination1{position:absolute;z-index:20;bottom:10px;width:100%;text-align:center}.swiper-pagination-switch{display:inline-block;width:8px;height:8px;border-radius:8px;background:#555;margin:0 5px;opacity:0.8;border:1px solid #fff;cursor:pointer}.swiper-active-switch{background:#fff}
 
 /*# sourceMappingURL=style-2.min.css.map */

diff --git a/static/0100/399系列主材包.html b/static/0100/399系列主材包.html
@@ -54,29 +54,30 @@
                             <div class="swiper-wrapper">
                                 <div class="swiper-slide">
                                     <a class="lazy" style="background-color:#111212;">
-                                        <img data-original='img/banner.jpg' src="http://icon.dyrs.cc/m/blank.gif" alt="" class="lazy_img auto"/>
+                                        <img data-original='img/one1.jpg' src="http://icon.dyrs.cc/m/blank.gif" alt="" class="lazy_img auto"/>
                                     </a>
                                 </div>
                                 <div class="swiper-slide">
                                     <a class="lazy" style="background-color:#111212;">
-                                        <img data-original='http://i.carimg.com/store/284/045/000/63058180192a7177.jpg!c' src="http://icon.dyrs.cc/m/blank.gif" alt="" class="lazy_img auto"/>
+                                        <img data-original='img/two1.jpg' src="http://icon.dyrs.cc/m/blank.gif" alt="" class="lazy_img auto"/>
                                     </a>
                                 </div>
                                 <div class="swiper-slide">
-                                    <a class="lazy" style="background-color:#c47242;">
-                                        <img data-original='http://i.carimg.com/store/199/006/000/16757b2b9be22028.jpg!c' src="http://icon.dyrs.cc/m/blank.gif" alt="" class="lazy_img auto"/>
+                                    <a class="lazy" style="background-color:#111212;">
+                                        <img data-original='img/three1.jpg' src="http://icon.dyrs.cc/m/blank.gif" alt="" class="lazy_img auto"/>
                                     </a>
                                 </div>
                                 <div class="swiper-slide">
-                                    <a class="lazy" style="background-color:#7b3adc;">
-                                        <img data-original='http://i.carimg.com/store/202/006/000/87757b2b9f280818.jpg!c' src="http://icon.dyrs.cc/m/blank.gif" alt="" class="lazy_img auto"/>
+                                    <a class="lazy" style="background-color:#111212;">
+                                        <img data-original='img/four1.jpg' src="http://icon.dyrs.cc/m/blank.gif" alt="" class="lazy_img auto"/>
                                     </a>
                                 </div>
                                 <div class="swiper-slide">
-                                    <a class="lazy" style="background-color:#a56238;">
-                                        <img data-original='http://i.carimg.com/store/431/013/000/96057e2526c10609.jpg!c' src="http://icon.dyrs.cc/m/blank.gif" alt="" class="lazy_img auto"/>
+                                    <a class="lazy" style="background-color:#111212;">
+                                        <img data-original='img/five1.jpg' src="http://icon.dyrs.cc/m/blank.gif" alt="" class="lazy_img auto"/>
                                     </a>
                                 </div>
+
                             </div>
                         </div>
                     </div>
@@ -84,7 +85,11 @@
                 <div class="page2">
                     <div class="w1170">
                         <img data-original='img/page-2-middle.jpg' src="http://icon.dyrs.cc/m/blank.gif" alt="" class="lazy_img"/>
-
+                        <div class="fonts f12">
+                            <p>房屋面积计算公式<br/>房屋实际的套内面积/0.75=计价面积</p>
+                            <p>计价面积＞85㎡的房型<br/>主材包总价=计价面积*399元/㎡</p>
+                            <p>计价面积≤85㎡的房型<br/>统一按33915元收取主材包费用</p>
+                        </div>
                     </div>
                 </div>
                 <div class="page3">

diff --git a/static/0100/scss/style-2.scss b/static/0100/scss/style-2.scss
@@ -552,6 +552,24 @@ body.page-2 {
             }
         }
     }
+    div.page2{
+        div.fonts{
+            position: absolute;
+            z-index: 10;
+            width: 100%;
+            top:400px;
+            left:95px;
+            width: 1000px;
+            p{
+                float: left;
+                width: 33%;
+                text-align: center;
+                color: #fff;
+
+
+            }
+        }
+    }
     .go-form{
         cursor: pointer;
     }
